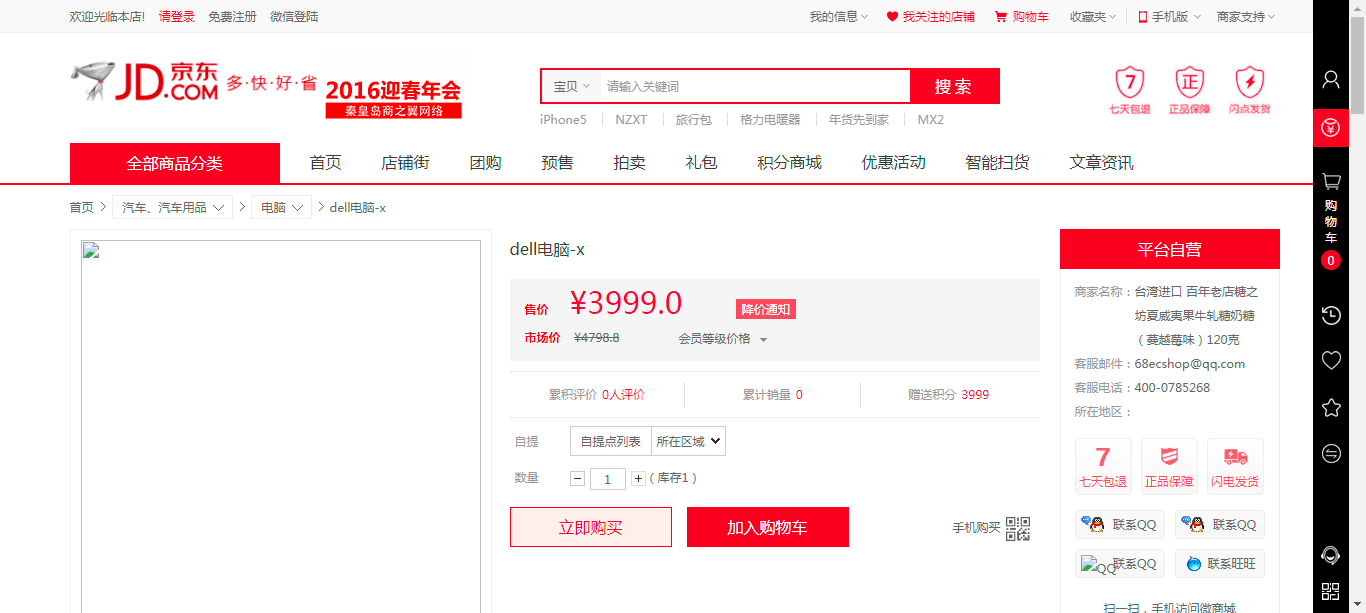
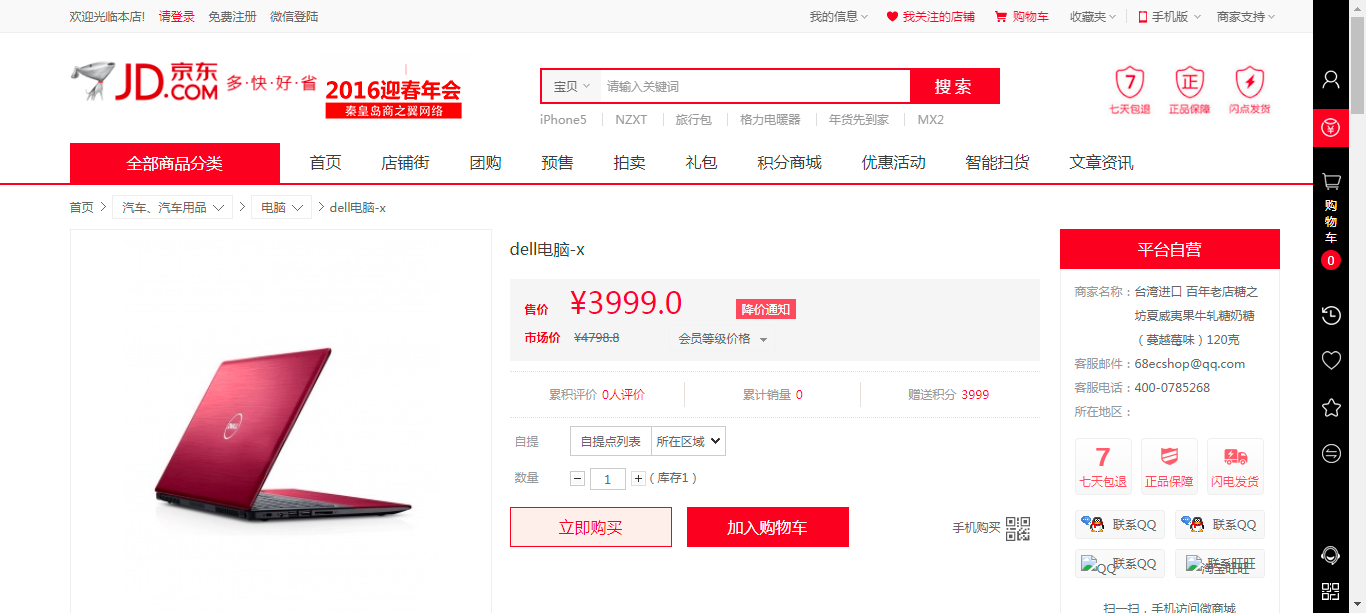
demo

diff --git a/Day_5/practice/practice_06.py b/Day_5/practice/practice_06.py
@@ -10,23 +10,23 @@ from selenium.webdriver.chrome.webdriver import WebDriver
 from selenium.webdriver.common.by import By
 
 
-class HomePage(object):
+class LoginPage(object):
     username_ipt = (By.NAME, "username")  # 用户名
     password_ipt = (By.NAME, "password")  # 密码
     login_btn = (By.CSS_SELECTOR, "input.button2")  # 登录按钮
 
-    def __init__(self,driver:WebDriver):
+    def __init__(self, driver: WebDriver):
         self.driver = driver
 
-    def conn(self,url):
+    def conn(self, url):
         self.driver.get(url)
         self.driver.maximize_window()
 
-    def enter_user(self,username):
+    def enter_user(self, username):
         print(f'用户名为：{username}')
         self.driver.find_element(*self.username_ipt).send_keys(username)
 
-    def enter_pwd(self,password):
+    def enter_pwd(self, password):
         print('输入用户密码')
         self.driver.find_element(*self.password_ipt).send_keys(password)
 
@@ -34,17 +34,18 @@ class HomePage(object):
         print('点击确定按钮')
         self.driver.find_element(*self.login_btn).click()
 
-class AddGoods(object):
-    man_goods_btn = (By.XPATH,'//a[text()="商品管理"]')   # 商品管理
-    add_goods_btn = (By.LINK_TEXT,'添加新商品')  # 添加新商品
-    goods_name_ipt = (By.NAME,'goods_name')  # 商品名称
-    goods_class_ipt = (By.ID,'cat_name')  # 输入商品分类
-    goods_class_btn = (By.ID,'treeDemo_cat_id_3_span')  # 选择商品分类
-    goods_price_ipt = (By.NAME,'shop_price')  # 商品价格
-    goods_picture_ipt = (By.NAME,'goods_img')  # 商品图片
-    sub_btn = (By.ID,'goods_info_submit')  # 确定按钮
 
-    def __init__(self,driver:WebDriver):
+class AddGoods(object):
+    man_goods_btn = (By.XPATH, '//a[text()="商品管理"]')  # 商品管理
+    add_goods_btn = (By.LINK_TEXT, '添加新商品')  # 添加新商品
+    goods_name_ipt = (By.NAME, 'goods_name')  # 商品名称
+    goods_class_ipt = (By.ID, 'cat_name')  # 输入商品分类
+    goods_class_btn = (By.ID, 'treeDemo_cat_id_3_span')  # 选择商品分类
+    goods_price_ipt = (By.NAME, 'shop_price')  # 商品价格
+    goods_picture_ipt = (By.NAME, 'goods_img')  # 商品图片
+    sub_btn = (By.ID, 'goods_info_submit')  # 确定按钮
+
+    def __init__(self, driver: WebDriver):
         self.driver = driver
 
     def jump(self):
@@ -60,14 +61,14 @@ class AddGoods(object):
         sleep(2)
         self.driver.switch_to.frame('main-frame')
 
-    def enter_goods_name(self,goods_name):
+    def enter_goods_name(self, goods_name):
         print(f'录入商品名称为{goods_name}')
         elm = self.driver.find_element(*self.goods_name_ipt)
         elm.clear()
         elm.send_keys(goods_name)
         return goods_name
 
-    def enter_goods_class(self,goods_class):
+    def enter_goods_class(self, goods_class):
         print(f'商品分类为：{goods_class}')
         elm = self.driver.find_element(*self.goods_class_ipt)
         elm.clear()
@@ -75,11 +76,11 @@ class AddGoods(object):
         sleep(1)
         self.driver.find_element(*self.goods_class_btn).click()
 
-    def enter_goods_picture(self,picture_path):
+    def enter_goods_picture(self, picture_path):
         print('上传商品图片')
         self.driver.find_element(*self.goods_picture_ipt).send_keys(picture_path)
 
-    def enter_goods_price(self,goods_price):
+    def enter_goods_price(self, goods_price):
         print(f'录入商品价格为{goods_price}')
         elm = self.driver.find_element(*self.goods_price_ipt)
         elm.clear()
@@ -96,12 +97,13 @@ class AddGoods(object):
         else:
             print('商品添加失败')
 
-class GoodList(object):
-    good_list_btn = (By.LINK_TEXT,'商品列表')
-    view_btn = (By.XPATH,"//span[text()='dell电脑-x']/../../td[13]/a[1]")
-    del_btn = (By.XPATH,"//span[text()='dell电脑-x']/../../td[13]/a[4]")
 
-    def __init__(self,driver:WebDriver):
+class GoodList(object):
+    good_list_btn = (By.LINK_TEXT, '商品列表')
+    view_btn = (By.XPATH, "//span[text()='dell电脑-x']/../../td[13]/a[1]")  # 查看
+    del_btn = (By.XPATH, "//span[text()='dell电脑-x']/../../td[13]/a[4]")  # 回收站
+
+    def __init__(self, driver: WebDriver):
         self.driver = driver
 
     def click_good_list(self):
@@ -124,11 +126,15 @@ class GoodList(object):
         self.driver.find_element(*self.del_btn).click()
         self.driver.switch_to.alert.accept()
 
-
+    def check(self):
+        if 'dell电脑-x' not in self.driver.page_source:
+            print('删除成功')
+        else:
+            print('删除失败')
 driver = webdriver.Chrome()
 
 # 用户登录
-login = HomePage(driver)
+login = LoginPage(driver)
 login.conn('http://newecshop.longtest.cn/admin/privilege.php?act=login')
 login.enter_user('test01')
 login.enter_pwd('test888')
@@ -140,7 +146,7 @@ add.jump()
 add.switch_frame()
 add.enter_goods_name('dell电脑-x')
 add.enter_goods_class('电脑')
-add.enter_goods_price(r'D:\LT_Study\Day_5\picture\dell电脑.png')
+add.enter_goods_picture(r'D:\LT_Study\Day_5\picture\dell电脑.jpg')
 add.enter_goods_price(3999)
 add.click_submit()
 add.check()
@@ -151,5 +157,6 @@ good.click_good_list()
 add.switch_frame()
 good.view_goods()
 good.del_goods()
+good.check()
 
 good.driver.quit()
